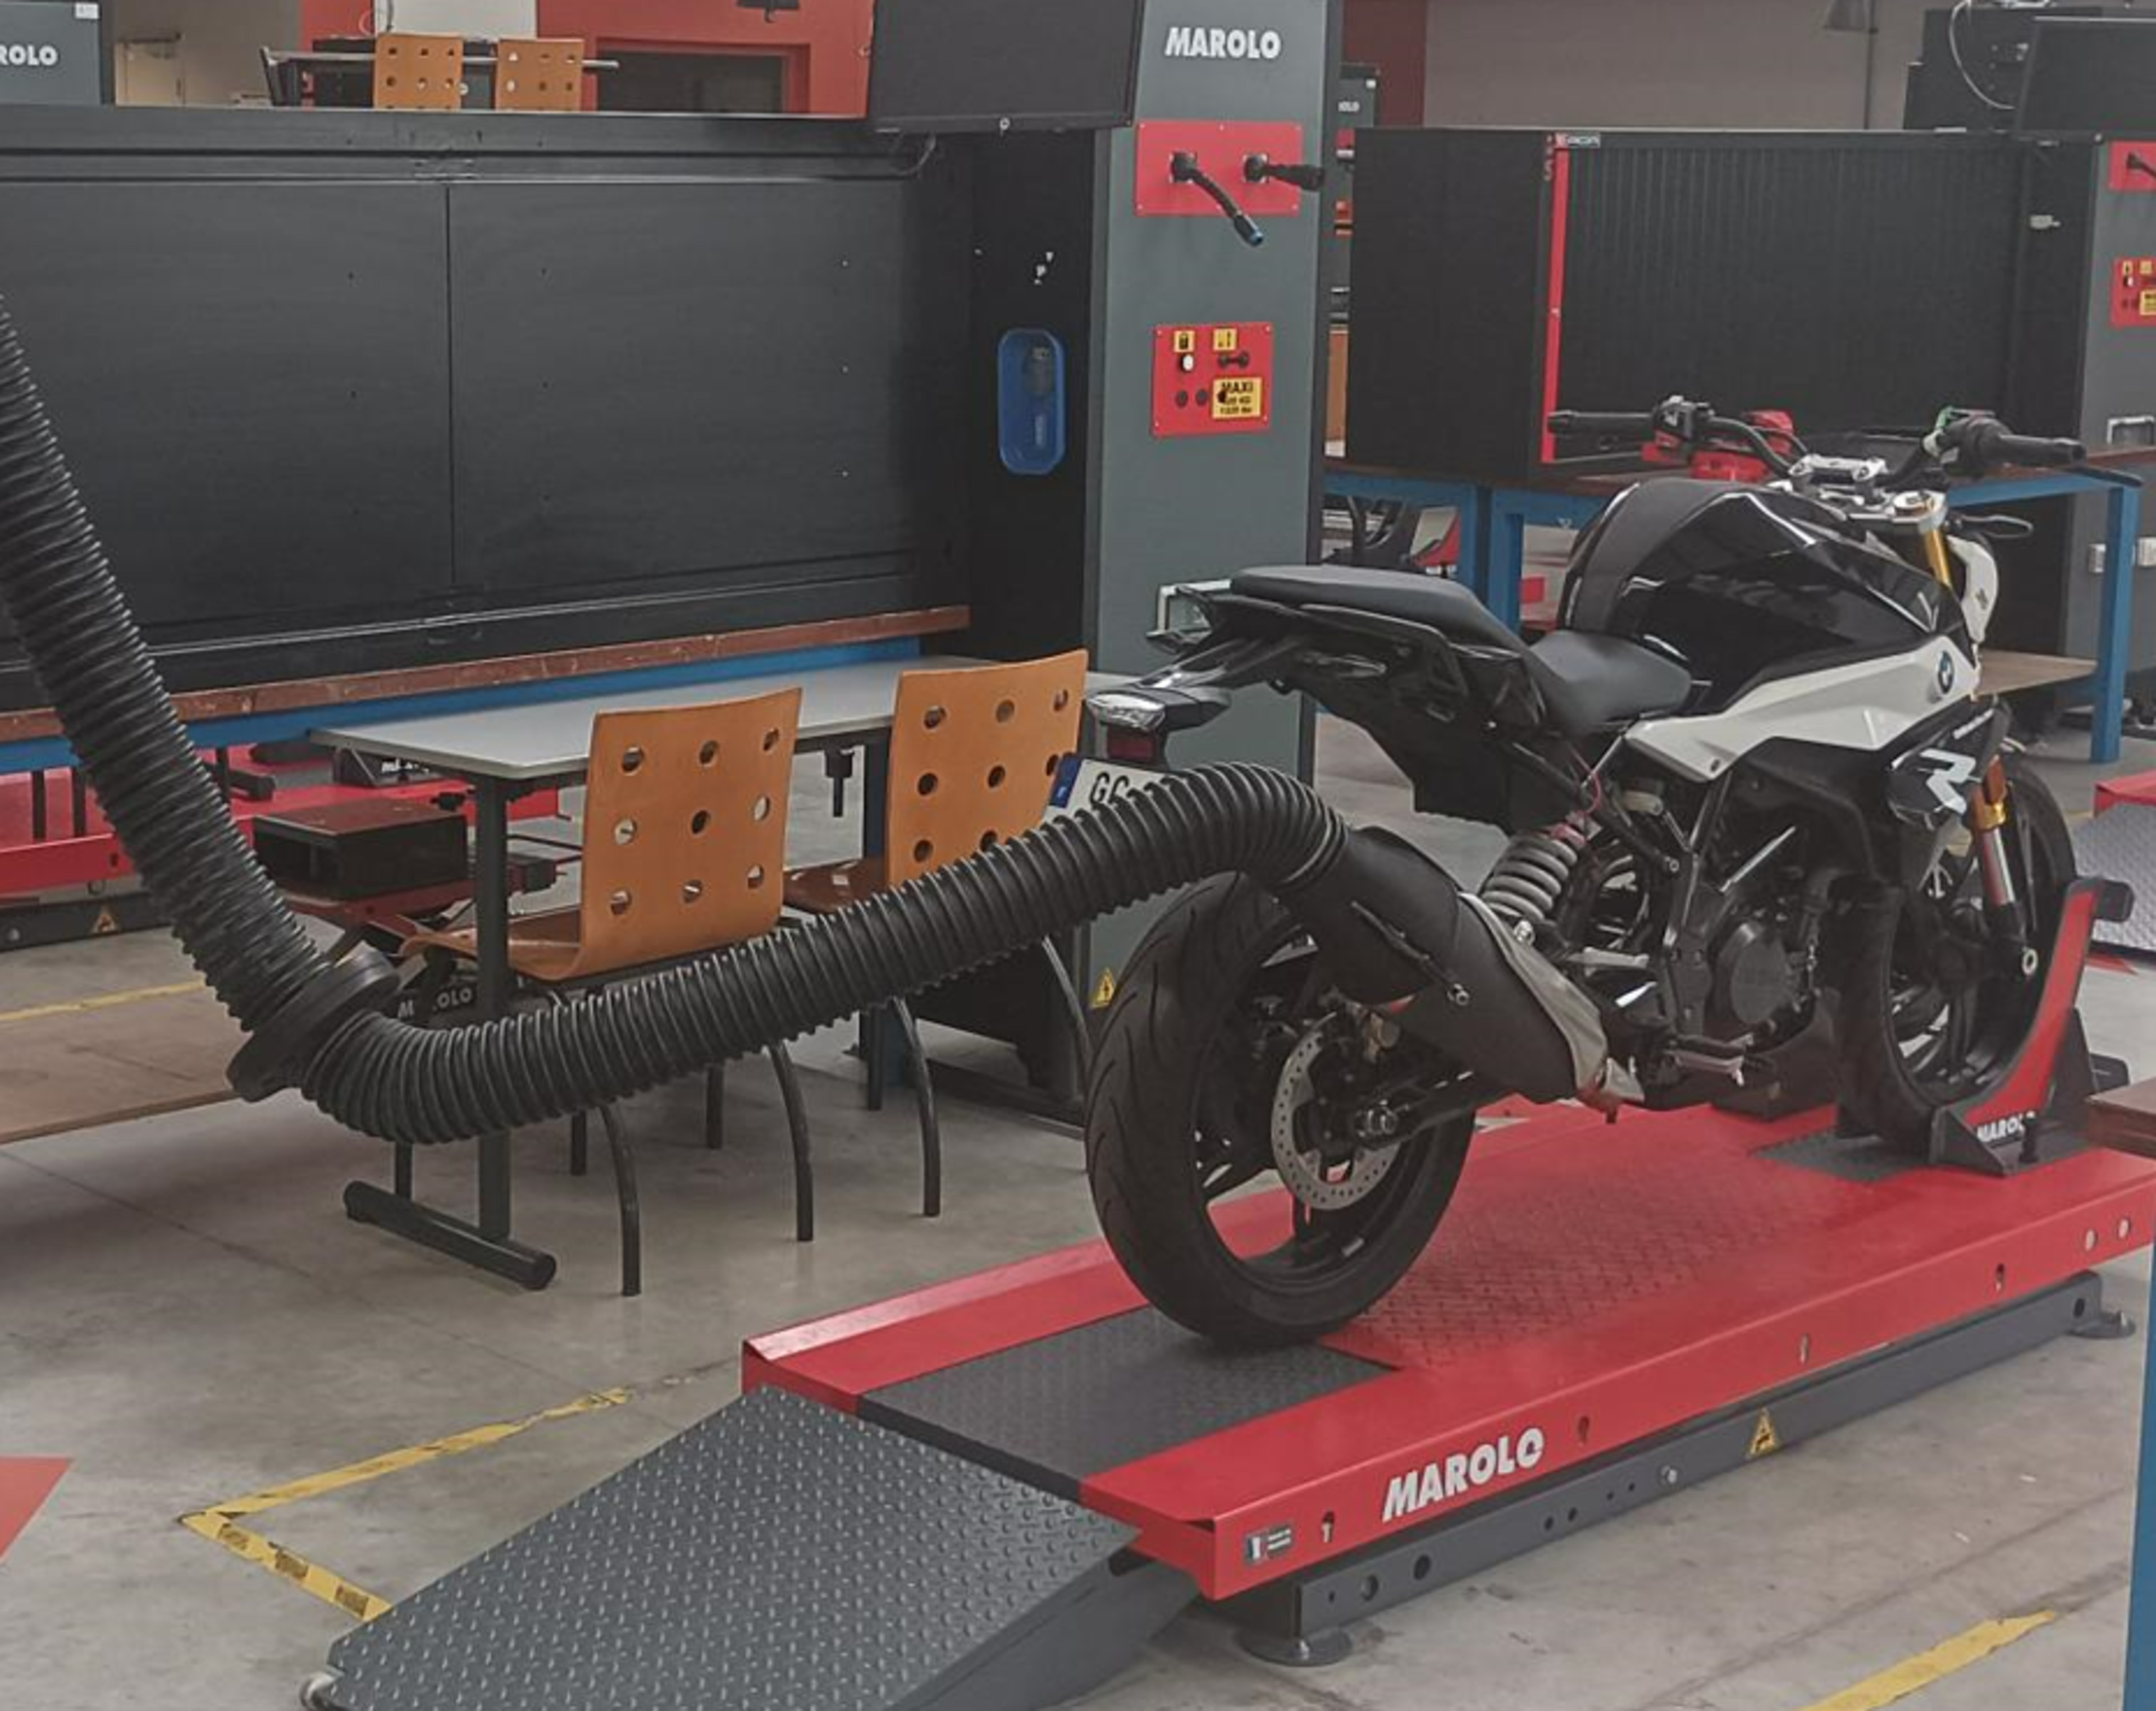
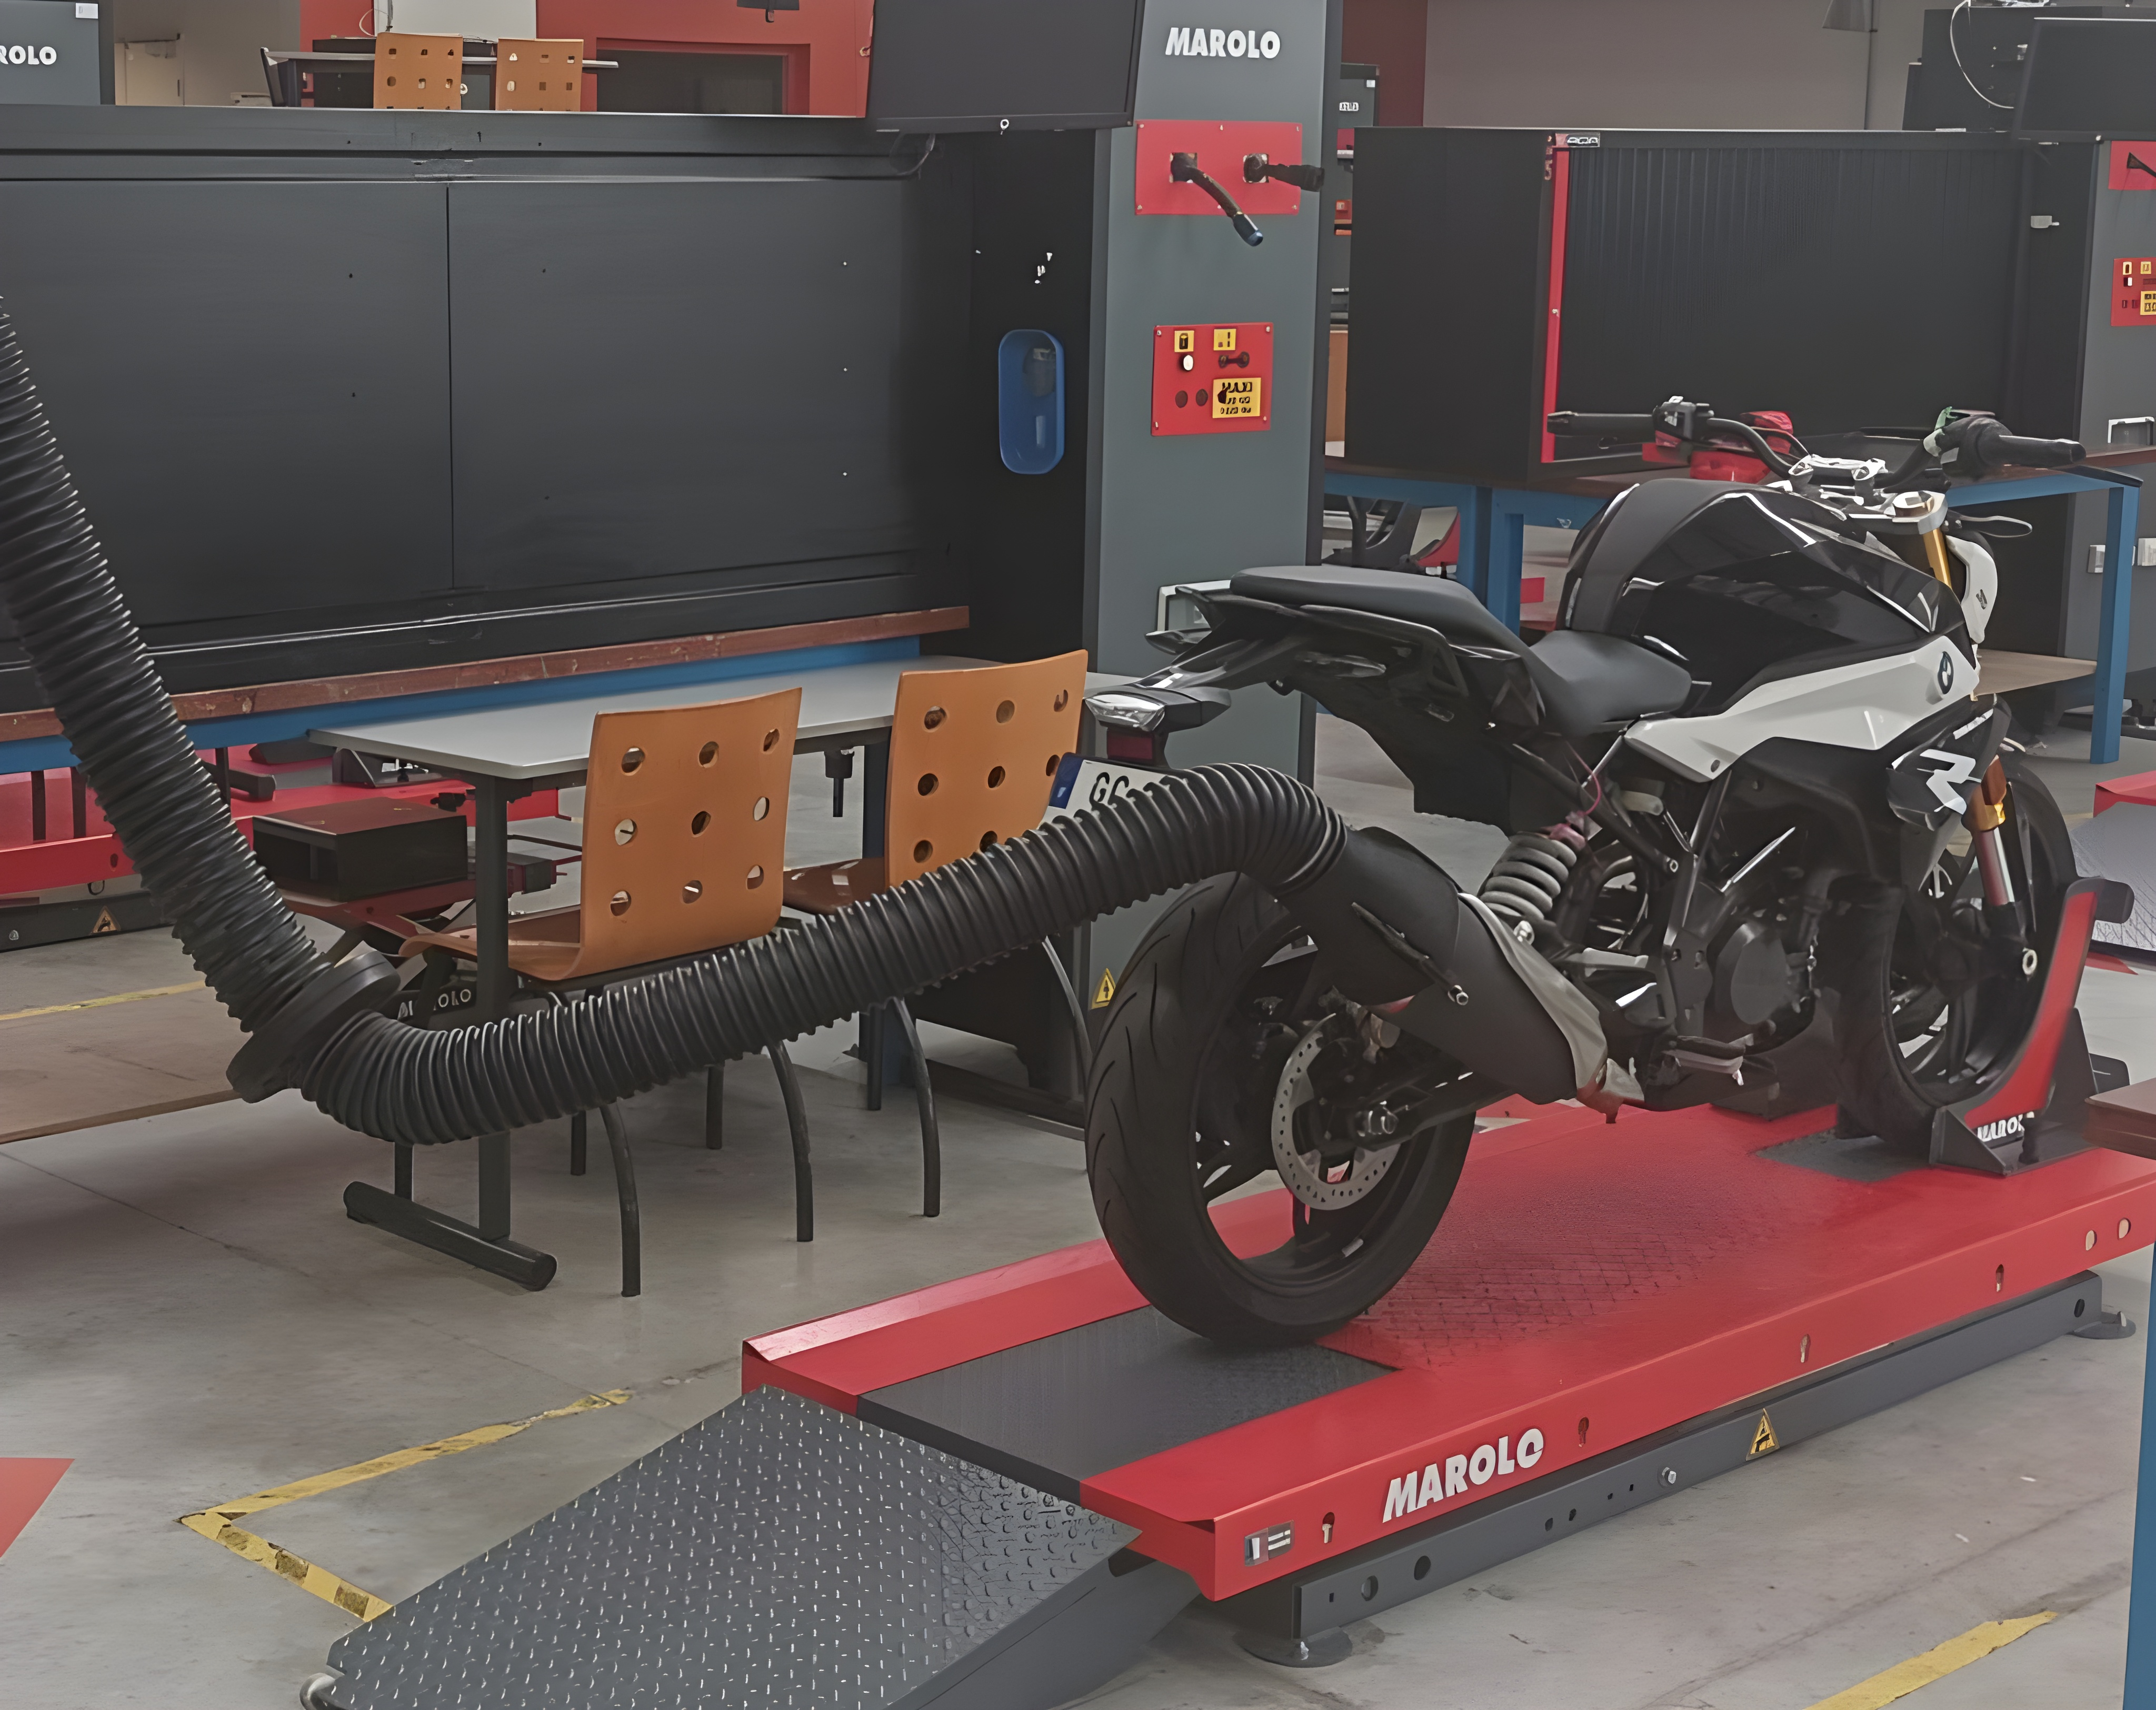
Modif bg form client

diff --git a/app/Views/accueil.php b/app/Views/accueil.php
@@ -21,7 +21,7 @@
     <div class="form-contact">
         <img src="img/bandeau_lycee.png">
         <H1>Demande de rendez-vous</H1>
-        <form action="<?= url_to('admin-ajout-demande') ?>" method="post" id="first">
+        <form action="<?= url_to('admin-ajout-demande') ?>" method="post">
             <div class="inputbox">
                 <input type="text" required="required">
                 <span>Nom</span>
@@ -53,5 +53,4 @@
         </form>
     </div>
 </body>
-
 </html>